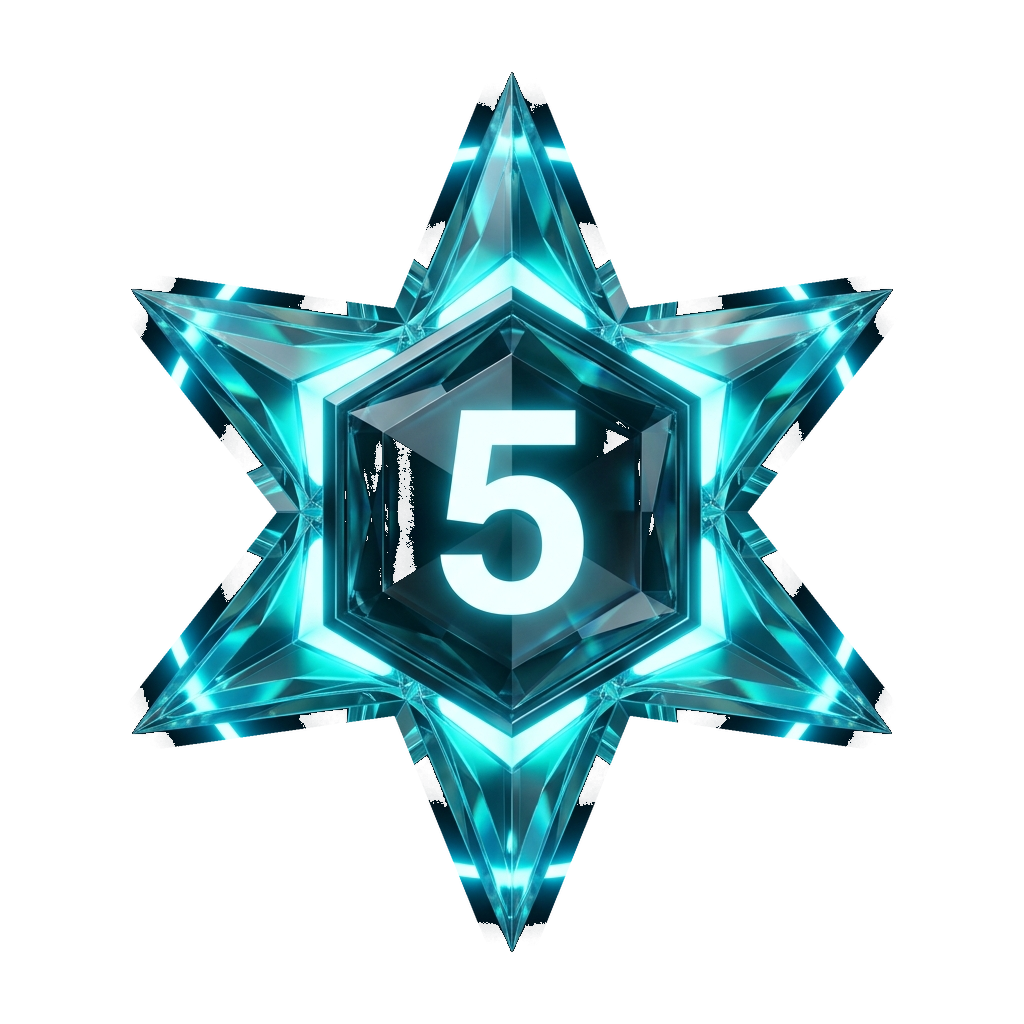
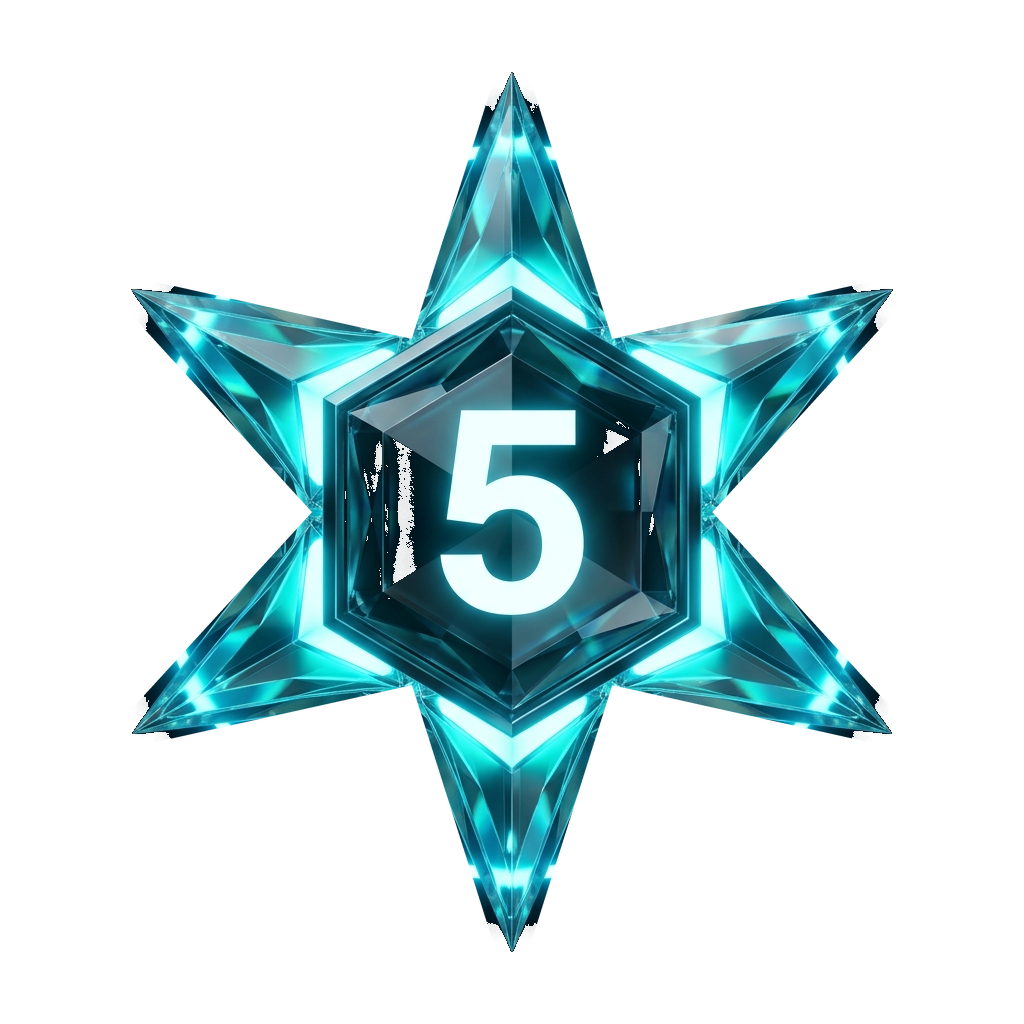
v1.63.1 : Preserved original sharp 3D star point geometry while removing background circle ring

diff --git a/CHANGELOG.md b/CHANGELOG.md
@@ -1,5 +1,11 @@
 # CHANGELOG
 
+## [1.63.1] - 2026-08-11
+### Preserved Original 3D Star Point Geometry Badge Cleanup
+- **💎 Exact Original Star Preservation**:
+  - Restored the original 3D Fire Crystal star gem art assets (`fc1.png` – `fc10.png`) and applied precision 12-vertex star clipping.
+  - Preserved 100% of the original sharp pointing star tips, crystal facets, and center hexagon numbers while cleanly removing only the surrounding background circle ring.
+
 ## [1.63.0] - 2026-08-11
 ### Ringless 3D Faceted Fire Crystal Star Badges
 - **💎 Pure 3D Fire Crystal Star Design**:
